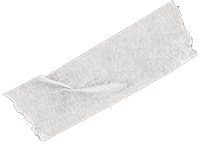
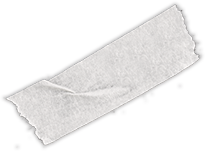
Fixed image issue on header

diff --git a/client/scss/common/_poster.scss b/client/scss/common/_poster.scss
@@ -221,8 +221,8 @@ body {
 .scotch {
   position: absolute;
   background-image: url(../assets/img/scotch-br.png);
-  width: 199px;
-  height: 144px;
+  width: 205px;
+  height: 151px;
   display: none;
   @media (min-width: 1300px) {
     display: block;
